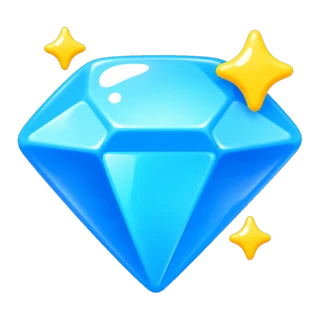
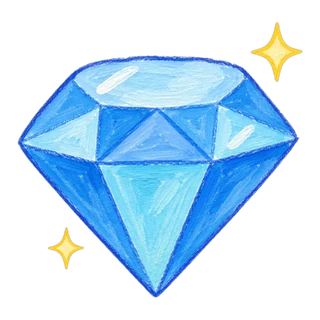
Kid pictures in the house style: a hand-painted picture book (28 pictures) (#265)
* Kid mode: copy the tune shows a repeated note as two flashes and two slots

A lit pad stayed lit, so the same note twice looked like one. Each pad now
lights for a moment and goes dark, its animal hops, and a row under the pads
fills with each note's animal as it plays and as the child plays it back.

Claude-Session: https://claude.ai/code/session_017iRLZKAXGEzdPwAD6BpEkJ

* Kid drawing: full-screen paper, colour dot on the paper, tray hides while drawing, one-tap start again

Owner's review: the paper can fill the screen (⛶ / ✕ in its corner); a dot in the
colour being used sits on the paper and opens the colour tray, which tucks away as
soon as the child starts drawing; the sponge is a labelled 'Start again' that wipes
in one tap, and ↶ (also on the paper) brings the picture back.

Claude-Session: https://claude.ai/code/session_017iRLZKAXGEzdPwAD6BpEkJ

* Kid games: ten levels each, and the top levels bring a twist

Owner, Nov 2026: "ด่านเยอะขึ้น ยากขึ้น". Levels 1–5 are as before; 6–10 (nine for
the jigsaw) add more and something new: a mirrored or half shadow, a wish to
remember (feed), orange and purple baskets, five or six sizes, two things from one
instruction (where), nine choices with close groups (odd), four-symbol patterns,
counting up to twenty, a star to pick up in the maze, a quicker tune, four new
join-the-dots pictures (car, cat, castle, butterfly) and up to 18 pairs.

Claude-Session: https://claude.ai/code/session_017iRLZKAXGEzdPwAD6BpEkJ
[…]

diff --git a/public/sw.js b/public/sw.js
@@ -1,6 +1,6 @@
 // Memory Bookshelf service worker: app shell + all drawn art offline from the first visit; photos cached as you view them
 // (or all at once with "Keep this book offline"). Data (/api) is cached by the app itself (IndexedDB) and written through its queue.
-const V = 'mbs-v196';
+const V = 'mbs-v198';
 const STOCK = 'mbs-stock';   // the stock art library (/stock/, versioned file names): only a stored book's pictures, kept across shell versions too
 const MEDIA = 'mbs-media';   // photos, clips, drawn characters, emoji pictures, drawn book art: kept across shell versions, so a deploy never empties the offline pack
 const SHELL = ['/', '/app.css', '/app-legacy.css', '/core.js', '/views.js', '/sheets.js', '/kid.js', '/manifest.webmanifest', '/icon-192.png',
@@ -19,6 +19,7 @@ const ART = ['/art/day-1.svg', '/art/day-2.svg', '/art/day-3.svg', '/art/day-4.s
   '/art/kidui/surprise.webp', '/art/kidui/pack.webp', '/art/kidui/say.webp', '/art/kidui/colour.webp', '/art/kidui/draw.webp', '/art/kidui/match.webp', '/art/kidui/quiz.webp',
   '/art/kidui/animals.webp', '/art/kidui/count.webp', '/art/kidui/bar-home.webp', '/art/kidui/bar-map.webp', '/art/kidui/bar-colour.webp', '/art/kidui/bar-stickers.webp', '/art/kidui/bar-trophies.webp',
   '/art/quest/chest.webp', '/art/quest/chest-open.webp', '/art/quest/cloud.webp', '/art/quest/coin.webp', '/art/quest/compass.webp', '/art/quest/crown.webp', '/art/quest/diamond.webp', '/art/quest/emerald.webp', '/art/quest/key.webp', '/art/quest/map.webp', '/art/quest/ruby.webp', '/art/quest/shell.webp', '/art/quest/star.webp', '/art/quest/trophy.webp',
+  '/art/kidui/shadow.webp', '/art/kidui/feed.webp', '/art/kidui/sort.webp', '/art/kidui/farm.webp', '/art/kidui/wash.webp', '/art/kidui/bigsmall.webp', '/art/kidui/maze.webp', '/art/kidui/where.webp', '/art/kidui/odd.webp', '/art/kidui/next.webp', '/art/kidui/simon.webp', '/art/kidui/dots.webp', '/art/kidui/howmany.webp', '/art/kidui/cake.webp',
   '/art/kidui/spy.webp', '/art/kidui/bubbles.webp', '/art/kidui/music.webp', '/art/kidui/jigsaw.webp', '/art/kidui/find.webp', '/art/kidui/stamp.webp', '/art/kidui/talk.webp', '/art/kidui/memory.webp', '/art/kidui/photos.webp', '/art/kidui/mood.webp', '/art/kidui/bar-passport.webp',
   '/art/emoji/airplane.webp', '/art/emoji/angry.webp', '/art/emoji/apple.webp', '/art/emoji/backpack.webp', '/art/emoji/balloon.webp', '/art/emoji/beach.webp', '/art/emoji/bed.webp', '/art/emoji/birthday-cake.webp', '/art/emoji/bus.webp', '/art/emoji/camera.webp', '/art/emoji/card.webp', '/art/emoji/cash.webp', '/art/emoji/celebrate.webp', '/art/emoji/child.webp', '/art/emoji/city.webp', '/art/emoji/clap.webp', '/art/emoji/cloudy.webp', '/art/emoji/cozy.webp', '/art/emoji/excited.webp', '/art/emoji/family.webp', '/art/emoji/fog.webp', '/art/emoji/gift.webp', '/art/emoji/heart.webp', '/art/emoji/hug.webp', '/art/emoji/icecream.webp', '/art/emoji/jacket.webp', '/art/emoji/joy.webp', '/art/emoji/kiss.webp', '/art/emoji/koala.webp', '/art/emoji/laugh.webp', '/art/emoji/love.webp', '/art/emoji/mouse.webp', '/art/emoji/museum.webp', '/art/emoji/nappy.webp', '/art/emoji/noodles.webp', '/art/emoji/palette.webp', '/art/emoji/partly-cloudy.webp', '/art/emoji/passport-book.webp', '/art/emoji/passport.webp', '/art/emoji/rainbow.webp', '/art/emoji/rainy.webp', '/art/emoji/receipt.webp', '/art/emoji/rollercoaster.webp', '/art/emoji/sad.webp', '/art/emoji/selfie.webp', '/art/emoji/shopping.webp', '/art/emoji/signpost.webp', '/art/emoji/sleepy-moon.webp', '/art/emoji/slide.webp', '/art/emoji/snowflake.webp', '/art/emoji/snowy.webp', '/art/emoji/splash.webp', '/art/emoji/star.webp', '/art/emoji/storm.webp', '/art/emoji/stroller.webp', '/art/emoji/suitcase.webp', '/art/emoji/sun.webp', '/art/emoji/sunrise.webp', '/art/emoji/sunscreen.webp', '/art/emoji/surprise.webp', '/art/emoji/swimsuit.webp', '/art/emoji/taxi.webp', '/art/emoji/teddy.webp', '/art/emoji/thanks.webp', '/art/emoji/thumbs-up.webp', '/art/emoji/ticket.webp', '/art/emoji/travel-map.webp', '/art/emoji/tree.webp', '/art/emoji/tshirt.webp', '/art/emoji/walking.webp', '/art/emoji/yummy.webp',
   '/art/keypad/0.webp', '/art/keypad/1.webp', '/art/keypad/2.webp', '/art/keypad/3.webp', '/art/keypad/4.webp', '/art/keypad/5.webp', '/art/keypad/6.webp', '/art/keypad/7.webp', '/art/keypad/8.webp', '/art/keypad/9.webp', '/art/keypad/back.webp', '/art/keypad/clear.webp',

diff --git a/public/app.css b/public/app.css
@@ -2799,3 +2799,5 @@ section.pg .dstamps.pst.c3 b,section.pg .dstamps.pst.c4 b{font-size:16px}section
 .qpicg i .qi{width:62%;height:62%}
 .lvbar.qbar>span{display:inline-flex;align-items:center;gap:8px}.lvbar.qbar .qi{width:28px;height:28px}
 @media (min-width:700px){.qcloud .qi{width:98px;height:98px}.qchest span .qi{width:68px;height:68px}}
+/* the mission buttons and the boss on the adventure map wear the games' own pictures (public/art/kidui) */
+.qm span .qi{width:clamp(56px,13vw,84px);height:clamp(56px,13vw,84px)}.qboss em .qi{width:40px;height:40px}

diff --git a/CLAUDE.md b/CLAUDE.md
@@ -51,7 +51,7 @@ UI screenshots go to `$SHOTS` (default `/tmp/mb-shots`) — look at them after U
 - **Ten levels and the adventure map** (owner, Nov 2026: "ด่านเยอะขึ้น ยากขึ้น", "แผนที่ผจญภัยจะเป็น hilight"): `LV` has ten levels a game (nine for the jigsaw); 1–5 are as before, 6–10 bring a twist (`flip`/`half` shadow, `mem` feed — the wish hides, `kgpal` asks again —, six sort colours, `where` mode `two` = two things from one instruction, `near: 2` odd, four-symbol patterns, counting to 20, a maze `star` off the route that must be picked up, `fast` simon, four more `DOT_SHAPES`, 18 match pairs). **The adventure map** (`#/kid/<kid>/quest`, banner `.kidquest` on the kid home, kid.js `questPlan`/`questHtml`): one town per day of the book walked in order, each = three missions (`QUEST_ORDER` rotates the 13 level games, no repeat in neighbouring towns; the level climbs along the road, 2 → 10, the little one 1 → 5) and a chest that opens once the three are played (the town's secret = one of the day's `passport.days[i].facts`, a `QUEST_GEM` sticker, three stars; trophies `quest1`/`questall`). A mission sets `quest = {tid, kid, town, slot, game, lv}`: `lvState` then answers the road's level, `lvSet` writes nothing (the child's own levels never move), `lvDone` marks the mission, `lvBar` shows the town, `lvWin` offers "back to the map"; any other page clears it (`questReset` drops half-played boards). Progress = ticks `quest.d<i>.<0|1|2|chest>` with day null (never a memory of a day), so it syncs between devices and is in backups; a relative's play stays in `questMem` (nothing saved). Towns ahead wait in clouds — never a lock, never `0/3`. **Depth**: a boss (`questBoss`, slot 3: one of the town's games a level up; shown once the three are played, the chest waits for it); a hidden mission in every second town (`questBonus`, slot `x`: a creature `.qhid` on the town's card, a game the town does not have, a level easier, never needed for the chest); a mission left unfinished twice comes back a level easier (`questEase`, `ls('qease_<kid>')`, this device only); three wrong taps in a round make the right answer glow in every pick game (`kgNope` → `.hint`, `kgRight`); the treasure picture `questPic` (the passport crest in as many pieces as towns, a chest uncovers one; shown once there is a piece). **The walk** (`questnext`): after a chest the child still stands in that town (`questNew` holds the map there); "on to the next town" hops a fixed copy of the character `.qwalk` along the road by the Web Animations API in px (five hops, a tap sound each), then the town opens, its cloud floats off (`.qcloud.lift`) and the guide says where we are; under reduced motion the town simply opens. A town card and a mission's page wear the town's own colours (`passport.days[i].acc/tint`; the kid header shows "เมืองที่ n" with the town's picture); the guide opens the story on a fresh road ("… ทำสมบัติหล่นตามทาง"). test/ui.mjs session `quest-ipad` runs it on 834×1112 and 1112×834 with the Australia book and motion on (`session(…, {motion: true})`). **A mission is made of its town** (`questThings(t, i)` = the day's `passport.days[i].spot`, `questAnimals` = `info.wild`, `questFoods` = `passport.food` + the lists flagged `yum`/`stars`, `questPhotos` = the family's photos of that day; all `[emoji, th, en]` with the English article dropped by `qEn`): on a mission the shadows, big-and-small, counting, patterns and the maze (one of the trip's animals looks for one of the town's things) lead with them (`qLead`), feed serves the book's foods when it has three or more, match leads with the town's photos, picture and things, the jigsaw is a photo of that day when there is one, else the town's picture (no picture switch on a mission); where / odd / colours / tune / dots stay generic. **The parents' line** (`questLine(t)` on the book's menu, only for a child who has set off: "มีมี่ อยู่เมืองที่ 4 … สมบัติ 3 ชิ้น"; editors get `questreset`, two taps: the book's quest ticks and that child's easing go).
 - **The kid map tells its places** (owner, Nov 2026: "ไม่ค่อยมีประโยชน์หรือสาระเลย ทำให้มันใช้ได้จริงหน่อย"; kid.js `mapCard(t, kid, day, at)` under `mapHtml` on `#/kid/<kid>/map`): the stop the children stand on shows its day in a card `#mapcard` — up to six of the plan's own headlines `h` (emoji + words, never a clock time; action `mapsay` reads the line aloud), the day's things to find (`daySpots`, ⭐ on the ticked ones), one fact, the family's photos of that day (→ the photo viewer on that day), "the same day we also go to …", a button to that town on the adventure map (`mapquest`; a town not reached opens the road where the child stands) and, on the day itself, "go and find them". `‹ ›` (`mapstep`) walk the journey one stop at a time (the walkers move, the card follows). The guide's line names the place and when ("วันที่ 5 เราจะไป…" / "วันนี้เราอยู่ที่…" / "เราไป…มาแล้ว").
 - **Kid mode follows the real trip** (owner, Nov 2026: "ในเล่มของเด็กลิ้งค์กับทริปจริงได้อีกไหม"; kid.js): (1) **by the clock** — on a trip day the kid home carries one slim banner `.kidnow` ("ตอนนี้ …" / "เดี๋ยวเราจะ …": `kidNowOf(t, i)` = the plan's timeline rows with a time and a headline, compared with `minsIn(row.tz || t.timezone)`; never while the surprise-box or stamp-before-bed banner shows — one banner at a time, and with it the hello steps aside and the adventure banner goes slim so the tiles stay ≥ 120 px) opening **my day** `#/kid/<kid>/day` (`kidDayHtml`: every step as a picture row — done ✓, now, next — the sleeps until home `sleepsLine`, a tap reads a step; the header shows today, not the picked day; no clock time on a kid page); (2) **the places we really went** — `mapReal(t, mm)`: a place the parents check in on the record page (`S.places`) marks the map stop of that day whose name fits it (`.pin.real` + a green ✓ flag; when no check-in of the day names a stop, every stop of that day), adds a sticker `been.<stop>` and a "เราไปมาแล้ว" list to the map's card. Nothing new is stored. **After a win** (owner, Nov 2026: the buttons hid under the bar on a Samsung S26 Ultra; "ค้างไว้ 5 วินาที แล้วออกอัตโนมัติ"): `lvWin` wraps its buttons in `.lvwin`, `winShow` scrolls them above the kid bar 1.5 s after the win, and a won mission goes back to the adventure map by itself five seconds later (`.lvwin.qauto`, a thin bar `.qbar5` runs on the button; "play again" cancels it). **Start the road again from the map**: `#qreset` at the foot of the adventure map (editors, once the road has begun) — press and hold 1.5 s like the star jar, a tap does nothing (`questWipe`, shared with the menu's two-tap `questreset`).
-- **The adventure map's own pictures** (owner, Nov 2026: an emoji looks different on every phone — the chest was a toolbox on a Samsung; "สไตล์ให้เหมาะสมกับเด็กกลางๆ เห็นแล้วเข้าใจ"): `public/art/quest/*.webp` (14 pictures, 320 px, transparent, in `sw.js` `ART`): chest, chest-open, cloud, crown (the boss), map, trophy and eight treasures in turn (`QUEST_ART`: diamond, key, coin, ruby, shell, emerald, compass, star; `QUEST_GEM` keeps the matching emoji for confetti). Drawn with the owner's Higgsfield account (glossy 3D toy style, one clear object, gender-neutral, on white), cut out here (flood-fill from the border, so highlights inside stay); `qImg(name)` → `<img class="qi">`, sized by its box in app.css. New pictures for kid mode follow this recipe; the owner approves a sample first and the credits are theirs.
+- **The adventure map's own pictures** (owner, Nov 2026: an emoji looks different on every phone — the chest was a toolbox on a Samsung; "สไตล์ให้เหมาะสมกับเด็กกลางๆ เห็นแล้วเข้าใจ"): `public/art/quest/*.webp` (14 pictures, 320 px, transparent, in `sw.js` `ART`): chest, chest-open, cloud, crown (the boss), map, trophy and eight treasures in turn (`QUEST_ART`: diamond, key, coin, ruby, shell, emerald, compass, star; `QUEST_GEM` keeps the matching emoji for confetti). Drawn with the owner's Higgsfield account and cut out here. **The house style is a hand-painted picture book** (owner, Nov 2026: "ทำให้ไม่เหมือนกับรูปทั่วไป … เอาให้เด่นกว่า" — of four samples they chose gouache and coloured pencil: visible brush strokes and paper grain, slightly wobbly outlines, a warm palette with teal; the first glossy 3D versions were replaced): one clear subject, gender-neutral, painted on a flat pale lilac background the subjects never use, so the cut-out is a flood-fill from the border plus the enclosed lilac holes (a cup's handles); `qImg(name)` → `<img class="qi">`, sized by its box in app.css. New pictures for kid mode follow this recipe; the owner approves a sample first and the credits are theirs. **Set 2** (owner: "ทำข้อ 1"): the fourteen game tiles that were still emoji (shadow, feed, sort, farm, wash, bigsmall, maze, where, odd, next, simon, dots, howmany, cake) are `public/art/kidui/<game>.webp` named in `KTILE`; the adventure map's mission buttons and the boss show the same picture (`KTILE[game][0]`), so no kid home tile and no mission is an emoji any more.
 - Kid mode polish: `.kidwrap.enter` (from `kidEnter`, only when the view changed) slides the page in and hops the home tiles in one by one; tile emoji float (`bob`); `beep('hello')` on `kidpick`. The plane toys' tiles (I spy, bubbles, music, jigsaw) carry the owner's icons `/art/kidui/spy|bubbles|music|jigsaw.webp` (rounded stickers cut from the owner's 2×2 sheet, Nov 2026; the tile gradient matches each icon). All of it under `prefers-reduced-motion: no-preference` only (the tests ask for reduced motion, so measurements stay stable).
 - Kid home tiles never repeat the kid bar (map, stickers, trophies live only on `.kidbar`); counting (`newCount(t, kid)`) draws mostly today's mission emojis (`daySpots`), then the trip's animals and friends.
 - Kid mode on a trip day (`dayNow(t) === i`): a morning **surprise box** banner (`.kidgift` → view `gift`, action `kidgift` → tick `gift.d<i>`, a sticker of its own `giftE(i)` in `stickerSet`, then today's `daySpots` and a go-find button) until opened; from 17:00 trip time (core.js `hourIn`) a **stamp before bed** banner (`.kidnight` → the `stamp` view, which says "ปั๊ก!") until `stamp.d<i>` is ticked.
